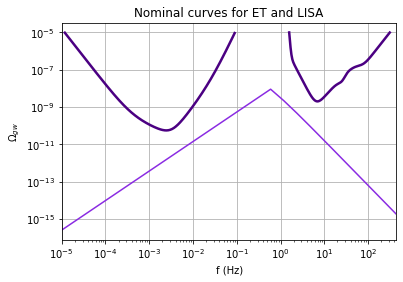
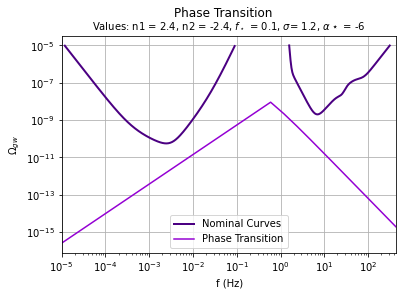
updtaes
Added α to bpl codes
and Uploaded phase transition

Changed region(s): [[0.0, 0.0284, 0.9826, 0.9929], [0.9826, 0.0851, 1.0, 0.1135]]

diff --git a/PhaseTransitions.py b/PhaseTransitions.py
@@ -35,7 +35,7 @@ ffmax = 445
 ###############
 #Change this value for how many 'steps' you want in the range of values
 
-itera = 150
+itera = 750
 
 ##########
 elminL = (np.log10(ffmin))
@@ -156,17 +156,15 @@ plt.title("Nominal Sensitivity curve of LISA", fontsize = 16)
 plt.show()
 
 #%%
-def bplET(f):
-    s = 1.2
-    n1 = 2.4
-    n2 = -2.4
-    fstar = 1e-1
-    res = (f/fstar)**n1 * (1+(f/fstar)**s)**(-(n1-n2)/s)
+s = 1.2
+n1 = 2.4
+n2 = -2.4
+fstar = 1e-1
+a = -6
+
+def bpl(f):
+    res = 10**a * (f/fstar)**n1 * (1+(f/fstar)**s)**(-(n1-n2)/s)
     return res
-
-
-
-
 
 
 
@@ -187,20 +185,35 @@ def nomtog(f):
         if res > 1e-5:
             return
         return res
- 
+
+
+step = (ffmax-ffmin)/itera
+freqs = np.arange(ffmin, ffmax, step)
 fvalscomb = np.logspace(np.log10(ffmin), np.log10(ffmax),750)
+
+
+
+phase = np.array(list(map(bpl, freqs)))
 combine = np.array(list(map(omegatog, fvalscomb)))
 nom = np.array(list(map(nomtog, fvalscomb)))
 otog = np.vstack((fvalscomb, combine)).T
 
-plt.figure(figsize=(6, 9))
-plt.loglog(otog[:,0], nom, color = "indigo", linewidth=2.5)
-plt.title("Nominal curves for ET and LISA")
+
+#%%
+# plt.figure(figsize=(6, 9))
+plt.loglog(otog[:,0], nom, color = "indigo", linewidth=2, label = "Nominal Curves")
+# plt.loglog(freqvals, sigvals, color = "indigo", label = "LISA", linewidth=2)
+# plt.loglog(fvalsET, sigETvals, '-.',color = "indigo",label = "ET", linewidth=2)
+plt.loglog(freqs, phase, color = "darkviolet", label = "Phase Transition")
+# plt.legend(title = r"Values: n1 = {nom1}, n2 = {nom2}, $f_\star$ = {fbreak}, $\sigma$= {sig}, $\alpha^\star$ = {astar}".format(nom1=n1, nom2=n2, fbreak=fstar, sig = s, astar = a))
+plt.legend()
+plt.suptitle("Phase Transition")
+plt.title(r"Values: n1 = {nom1}, n2 = {nom2}, $f_\star$ = {fbreak}, $\sigma$= {sig}, $\alpha\star$ = {astar}".format(nom1=n1, nom2=n2, fbreak=fstar, sig = s, astar = a), fontsize = 10)
 plt.grid(True) 
 plt.xlim(ffmin, ffmax) 
 plt.xlabel('f (Hz)')
 plt.ylabel(r"$\Omega_{gw}$")
-plt.savefig('/Users/alisha/Documents/LISA_ET/Sensitivity Curves/ETLISAnom.png', bbox_inches='tight')
+plt.savefig('/Users/alisha/Documents/LISA_ET/Sensitivity Curves/phase.png', bbox_inches='tight')
 plt.show()
 
 

diff --git a/BPLSsenSigma.py b/BPLSsenSigma.py
@@ -99,7 +99,8 @@ elET = np.arange(elminet, elmaxet, elstep)
 sigma = np.arange(8,11,1)
 def bplET(f, fstar, n1, n2, s):
     #s = 10
-    res = (f/fstar)**n1 * (1+(f/fstar)**s)**(-(n1-n2)/s)
+    a = -6
+    res = 10**a * (f/fstar)**n1 * (1+(f/fstar)**s)**(-(n1-n2)/s)
     return res
 
 def AbplminET(fs, n1, n2, s):
@@ -334,7 +335,8 @@ otog = np.vstack((fvalscomb, combine)).T
 #bpls
 def combbpl(f, fstar, n1, n2):
     s = 10
-    res = (f/fstar)**n1 * (1+(f/fstar)**s)**(-(n1-n2)/s)
+    a = -6
+    res = 10**a * (f/fstar)**n1 * (1+(f/fstar)**s)**(-(n1-n2)/s)
     return res 
 
 
